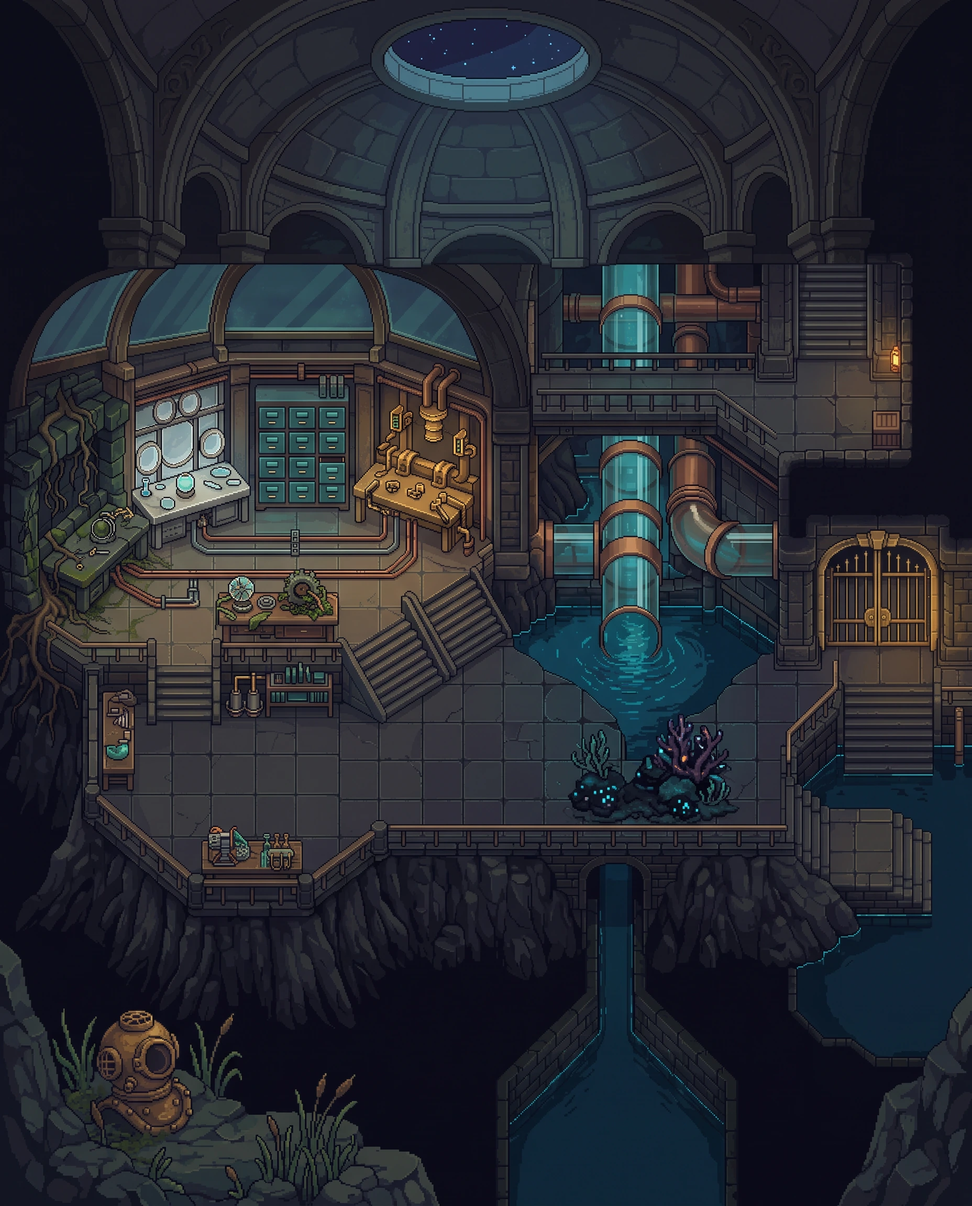
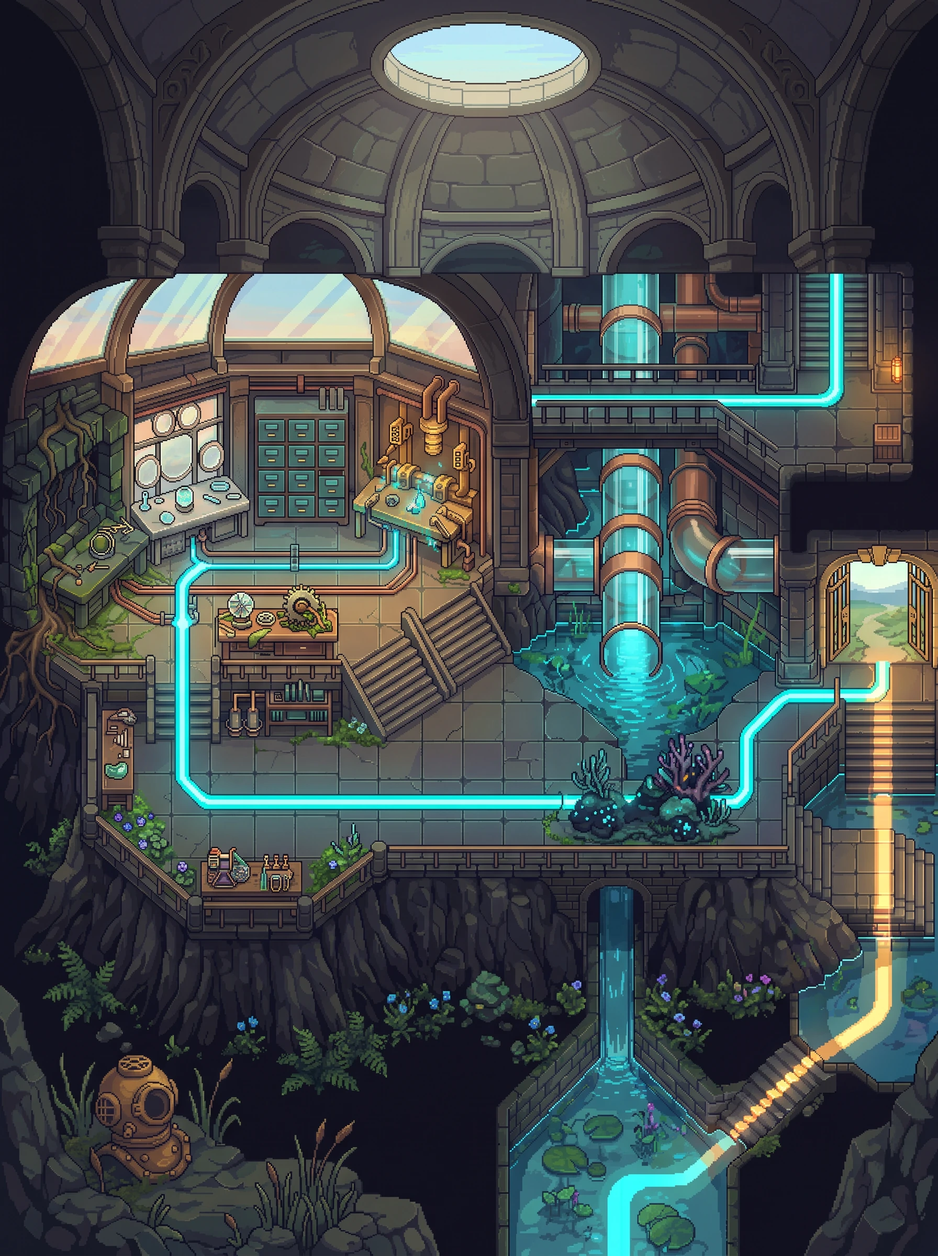
Promote the approved Unit 10, 16, and 17 story endings
Install the owner-selected Beacon Glass, Menders’ Bench, and Keeper’s Relay
paintings, record candidate approvals and rejections, clear the temporary
story-art lifecycle markers, and close the implementation documentation.

Make content and PWA assertions valid on both sides of the approval gate,
account for the three independent promoted story assets, and verify all
17 endings remain distinct and offline-packaged.

Validate the completed story with the quick test tier, full story-transition
suite, syntax checks, manifest hash verification, and production PWA audit.

diff --git a/docs/story-scene-review.md b/docs/story-scene-review.md
@@ -10,23 +10,24 @@ The [all-scenes review hub](http://127.0.0.1:4176/play/?preview=story-index)
 renders every story panel in the production dialog. Candidate links below use
 the real completion surface; review at 360×740 before approving a painting.
 
-## Pending bespoke endings
+## Approved bespoke endings
 
-Until approval, Units 10, 16, and 17 use their approved tall gameplay boards.
-Candidates stay under `artifacts/` and are never emitted by the PWA build.
+Units 10, 16, and 17 now use owner-approved semantic story WebPs. The generated
+candidates stay under `artifacts/` as review provenance and are not emitted by
+the PWA build.
 
-| Unit | Contact sheet | Candidate review links |
-|---|---|---|
-| 10 · `viewport-control` | `artifacts/world-generation/wp11/story-review-v2/unit-endings/viewport-control-restoration-3x4/contact-sheet.jpg` | [1](http://127.0.0.1:4176/play/?preview=story&story=unit-ending&unit=viewport-control&candidate=1) · [2](http://127.0.0.1:4176/play/?preview=story&story=unit-ending&unit=viewport-control&candidate=2) · [3](http://127.0.0.1:4176/play/?preview=story&story=unit-ending&unit=viewport-control&candidate=3) · [4](http://127.0.0.1:4176/play/?preview=story&story=unit-ending&unit=viewport-control&candidate=4) · [5](http://127.0.0.1:4176/play/?preview=story&story=unit-ending&unit=viewport-control&candidate=5) |
-| 16 · `real-code-workflow-capstones` | `artifacts/world-generation/wp11/story-review-v2/unit-endings/real-code-workflow-capstones-restoration-3x4/contact-sheet.jpg` | [1](http://127.0.0.1:4176/play/?preview=story&story=unit-ending&unit=real-code-workflow-capstones&candidate=1) · [2](http://127.0.0.1:4176/play/?preview=story&story=unit-ending&unit=real-code-workflow-capstones&candidate=2) · [3](http://127.0.0.1:4176/play/?preview=story&story=unit-ending&unit=real-code-workflow-capstones&candidate=3) · [4](http://127.0.0.1:4176/play/?preview=story&story=unit-ending&unit=real-code-workflow-capstones&candidate=4) · [5](http://127.0.0.1:4176/play/?preview=story&story=unit-ending&unit=real-code-workflow-capstones&candidate=5) |
-| 17 · `mastery-loops` | `artifacts/world-generation/wp11/story-review-v2/unit-endings/mastery-loops-restoration-3x4/contact-sheet.jpg` | [1](http://127.0.0.1:4176/play/?preview=story&story=unit-ending&unit=mastery-loops&candidate=1) · [2](http://127.0.0.1:4176/play/?preview=story&story=unit-ending&unit=mastery-loops&candidate=2) · [3](http://127.0.0.1:4176/play/?preview=story&story=unit-ending&unit=mastery-loops&candidate=3) · [4](http://127.0.0.1:4176/play/?preview=story&story=unit-ending&unit=mastery-loops&candidate=4) · [5](http://127.0.0.1:4176/play/?preview=story&story=unit-ending&unit=mastery-loops&candidate=5) |
+| Unit | Approved | Contact sheet | Candidate review links |
+|---|---:|---|---|
+| 10 · `viewport-control` | 4 | `artifacts/world-generation/wp11/story-review-v2/unit-endings/viewport-control-restoration-3x4/contact-sheet.jpg` | [1](http://127.0.0.1:4176/play/?preview=story&story=unit-ending&unit=viewport-control&candidate=1) · [2](http://127.0.0.1:4176/play/?preview=story&story=unit-ending&unit=viewport-control&candidate=2) · [3](http://127.0.0.1:4176/play/?preview=story&story=unit-ending&unit=viewport-control&candidate=3) · [4](http://127.0.0.1:4176/play/?preview=story&story=unit-ending&unit=viewport-control&candidate=4) · [5](http://127.0.0.1:4176/play/?preview=story&story=unit-ending&unit=viewport-control&candidate=5) |
+| 16 · `real-code-workflow-capstones` | 2 | `artifacts/world-generation/wp11/story-review-v2/unit-endings/real-code-workflow-capstones-restoration-3x4/contact-sheet.jpg` | [1](http://127.0.0.1:4176/play/?preview=story&story=unit-ending&unit=real-code-workflow-capstones&candidate=1) · [2](http://127.0.0.1:4176/play/?preview=story&story=unit-ending&unit=real-code-workflow-capstones&candidate=2) · [3](http://127.0.0.1:4176/play/?preview=story&story=unit-ending&unit=real-code-workflow-capstones&candidate=3) · [4](http://127.0.0.1:4176/play/?preview=story&story=unit-ending&unit=real-code-workflow-capstones&candidate=4) · [5](http://127.0.0.1:4176/play/?preview=story&story=unit-ending&unit=real-code-workflow-capstones&candidate=5) |
+| 17 · `mastery-loops` | 5 | `artifacts/world-generation/wp11/story-review-v2/unit-endings/mastery-loops-restoration-3x4/contact-sheet.jpg` | [1](http://127.0.0.1:4176/play/?preview=story&story=unit-ending&unit=mastery-loops&candidate=1) · [2](http://127.0.0.1:4176/play/?preview=story&story=unit-ending&unit=mastery-loops&candidate=2) · [3](http://127.0.0.1:4176/play/?preview=story&story=unit-ending&unit=mastery-loops&candidate=3) · [4](http://127.0.0.1:4176/play/?preview=story&story=unit-ending&unit=mastery-loops&candidate=4) · [5](http://127.0.0.1:4176/play/?preview=story&story=unit-ending&unit=mastery-loops&candidate=5) |
 
-After the owner selects one number for each row, run:
+The owner selections were promoted with:
 
 ```sh
 python scripts/world-art/promote_wp11_story_endings.py \
-  --approve viewport-control=3 \
-  --approve real-code-workflow-capstones=1 \
+  --approve viewport-control=4 \
+  --approve real-code-workflow-capstones=2 \
   --approve mastery-loops=5
 ```
 

diff --git a/docs/implementation/24-story-continuity-and-unit-endings.md b/docs/implementation/24-story-continuity-and-unit-endings.md
@@ -1,8 +1,7 @@
 # Session 24 — Story continuity and unit endings
 
-**Status:** all application, story, pipeline, documentation, and test work is
-complete through the owner-selection gate. Only candidate selection, prepared
-promotion, and final regression remain.
+**Status:** complete, including owner selection, promotion, final regression,
+and PWA validation.
 
 ## Final 17-unit narrative
 
@@ -38,32 +37,33 @@ reusable, does not change the saved lesson position, and does not replay
 progression automatically. `window.VimWilds.masteryState()` exposes the chapter
 unit and completion state for deterministic tests.
 
-## Art approval gate
+## Approved ending art
 
-Units 10, 16, and 17 temporarily use their own approved tall gameplay boards as
-valid `storyImage` values and carry `storyArtStatus:
-pending-bespoke-approval`. All other ending images remain approved. The 17
-current ending sources have distinct hashes.
+Units 10, 16, and 17 used their approved tall gameplay boards while selection
+was pending. The owner approved Unit 10 candidate 4, Unit 16 candidate 2, and
+Unit 17 candidate 5. Their semantic WebPs now live in
+`assets/worlds/story/units/`, all pending markers are cleared, and all 17 ending
+sources have distinct hashes.
 
 The Nano Banana generator contains descriptions for Beacon Glass, Menders’
 Bench, and Keeper’s Relay and builds five 1792×2400 restoration candidates per
 unit from the approved tall board and finalized completion text. Candidates are
 review-only and remain outside runtime packaging.
 
-After the owner chooses one candidate per unit, no source edit is needed:
+The completed promotion was run as:
 
 ```sh
 python scripts/world-art/promote_wp11_story_endings.py \
-  --approve viewport-control=3 \
-  --approve real-code-workflow-capstones=1 \
+  --approve viewport-control=4 \
+  --approve real-code-workflow-capstones=2 \
   --approve mastery-loops=5
 ```
 
-Promotion validates recorded hashes and dimensions, records approval and
-rejections in all three manifests, converts with
+Promotion validated recorded hashes and dimensions, recorded approval and
+rejections in all three manifests, converted with
 `cwebp -quiet -mt -m 6 -q 90 -metadata none`, writes three semantic WebPs,
-updates all three story paths, clears their pending markers, and refuses to
-finish unless all 17 runtime endings are distinct and valid.
+updated all three story paths, cleared their pending markers, and verified all
+17 runtime endings are distinct and valid.
 
 ## Validation contract
 

diff --git a/docs/implementation/20-viewport-control-art.md b/docs/implementation/20-viewport-control-art.md
@@ -1,7 +1,6 @@
 # Session 20 — Viewport control art and story beat
 
-**Status:** implementation complete; bespoke ending selection remains at the
-shared Unit 10/16/17 approval gate.
+**Status:** complete, including owner-approved bespoke ending promotion.
 
 ## Final decisions
 
@@ -18,24 +17,24 @@ Beacon Glass Gallery is fully independent from Far Beacons:
 - Unit 9 now hands off to the gallery itself rather than describing Unit 10 as
   an unfinished part of Unit 9;
 - Unit 10’s completion copy and restoration meaning are preserved;
-- its temporary story image is the approved Beacon Glass tall board and is
-  marked `pending-bespoke-approval`.
+- candidate 4 is the promoted bespoke ending at
+  `assets/worlds/story/units/viewport-control.webp`.
 
 The historical WP-11 name `long-range-navigation` maps to live Unit 9
 `position-memory`. It remains only in immutable artifact provenance. Runtime,
 generator, review, and documentation identities use current unit ids.
 
-## Approval gate
+## Final promotion
 
-Five 1792×2400 candidates are generated under:
+Five 1792×2400 candidates were generated under:
 
 `artifacts/world-generation/wp11/story-review-v2/unit-endings/viewport-control-restoration-3x4/`
 
-Review links are in [../story-scene-review.md](../story-scene-review.md). The
-prepared promotion command verifies the chosen source hash, converts with
-`cwebp -quiet -mt -m 6 -q 90 -metadata none`, installs
-`assets/worlds/story/units/viewport-control.webp`, clears the pending marker,
-and participates in the 17-ending uniqueness check.
+Review links are archived in [../story-scene-review.md](../story-scene-review.md).
+Candidate 4 was owner-approved. The promotion command verified its source hash, converted with
+`cwebp -quiet -mt -m 6 -q 90 -metadata none`, installed
+`assets/worlds/story/units/viewport-control.webp`, cleared the pending marker,
+and passed the 17-ending uniqueness check.
 
 ## Validation contract
 

diff --git a/docs/implementation/README.md b/docs/implementation/README.md
@@ -127,12 +127,10 @@ dated before session 07 against this table.
 | 23 | [Five future unit boards and animation seeds](23-future-unit-boards-and-animation-seeds.md) | L | 07 | — |
 | 24 | [Story continuity and unit endings](24-story-continuity-and-unit-endings.md) | L | 07, 16, 23 | — |
 
-Sessions 20 and 23 are complete. Session 24 is complete through its explicit
-owner-selection gate: Unit 17, story continuity, boards, animations, packaging,
-review tooling, and promotion automation are implemented. Its only remaining
-operations are selecting the three generated Unit 10/16/17 ending paintings,
-running the prepared promotion command, and running the final regression/PWA
-validation.
+Sessions 20, 23, and 24 are complete. Unit 17, story continuity, boards,
+animations, packaging, review tooling, and promotion automation are implemented.
+The owner-approved Unit 10/16/17 paintings (candidates 4/2/5) are promoted, and
+the final regression and PWA validation pass.
 
 ## Recommended execution order
 
